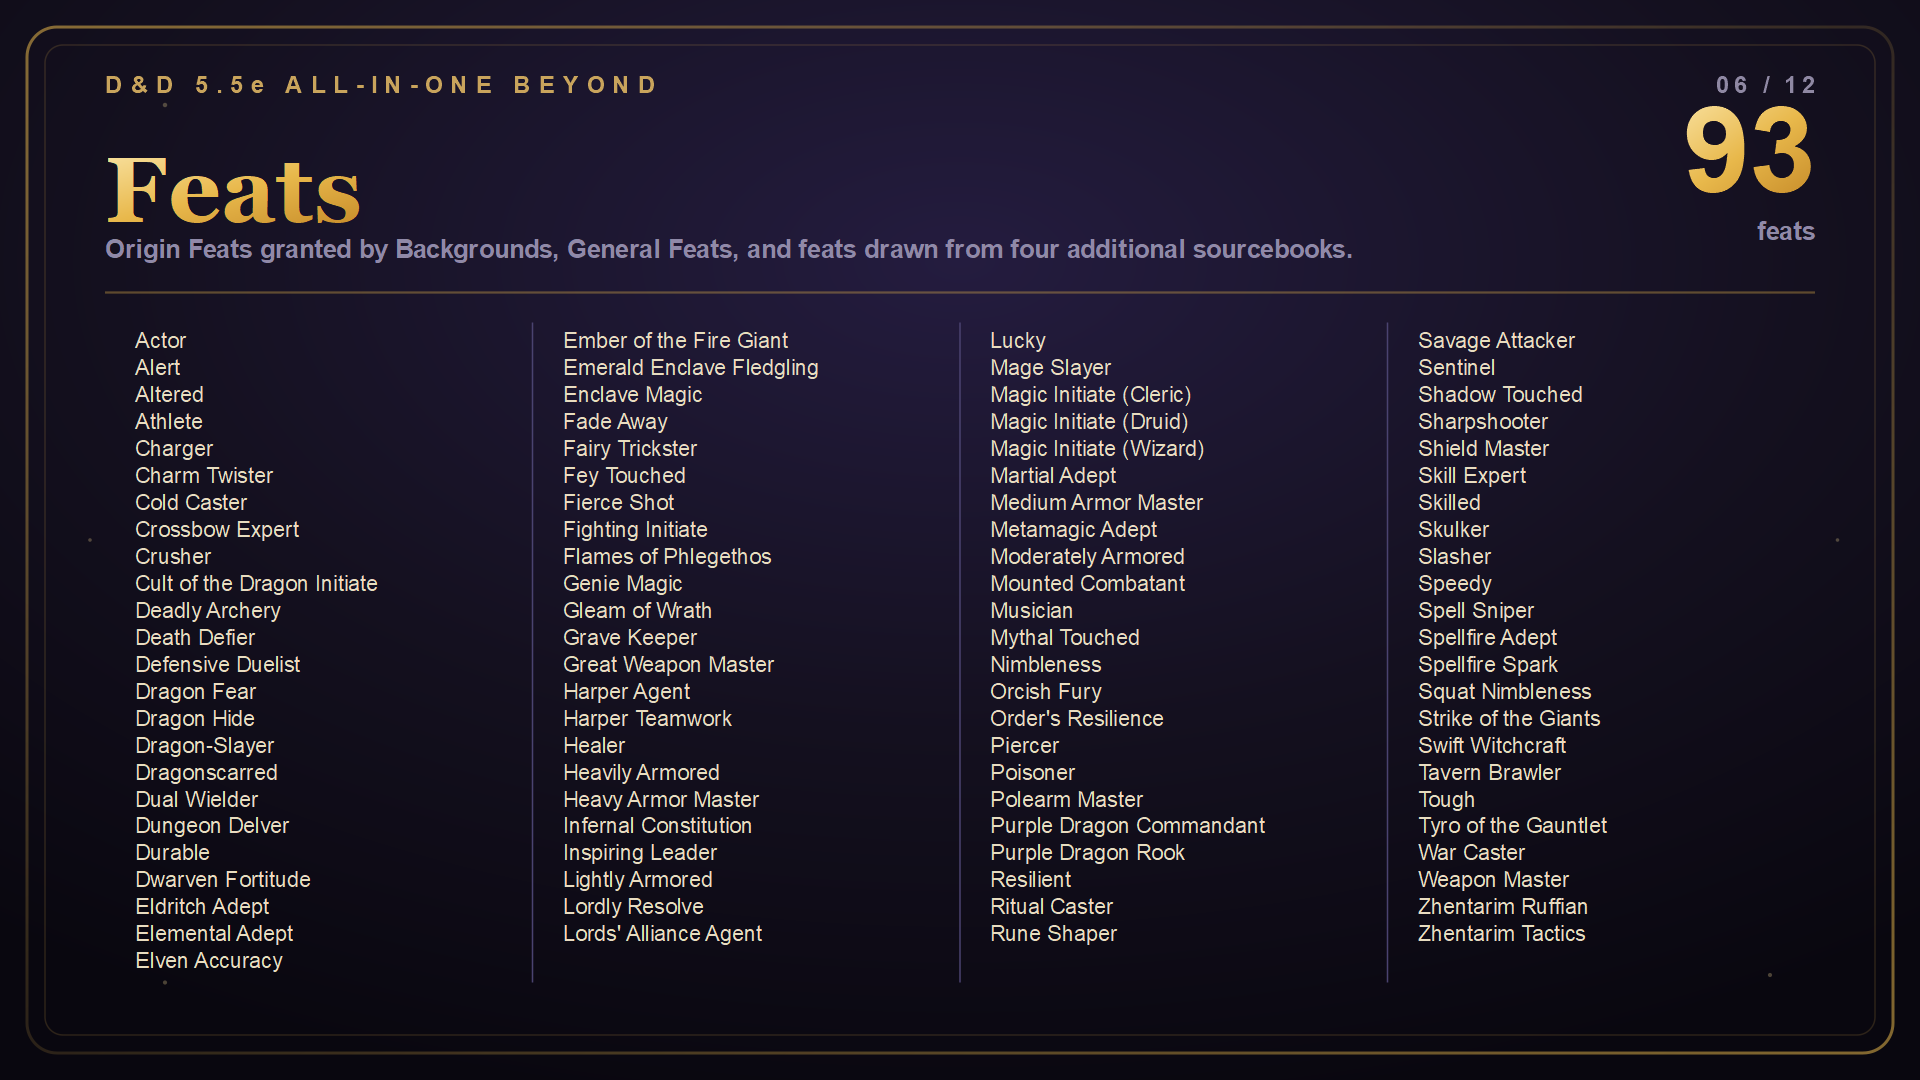
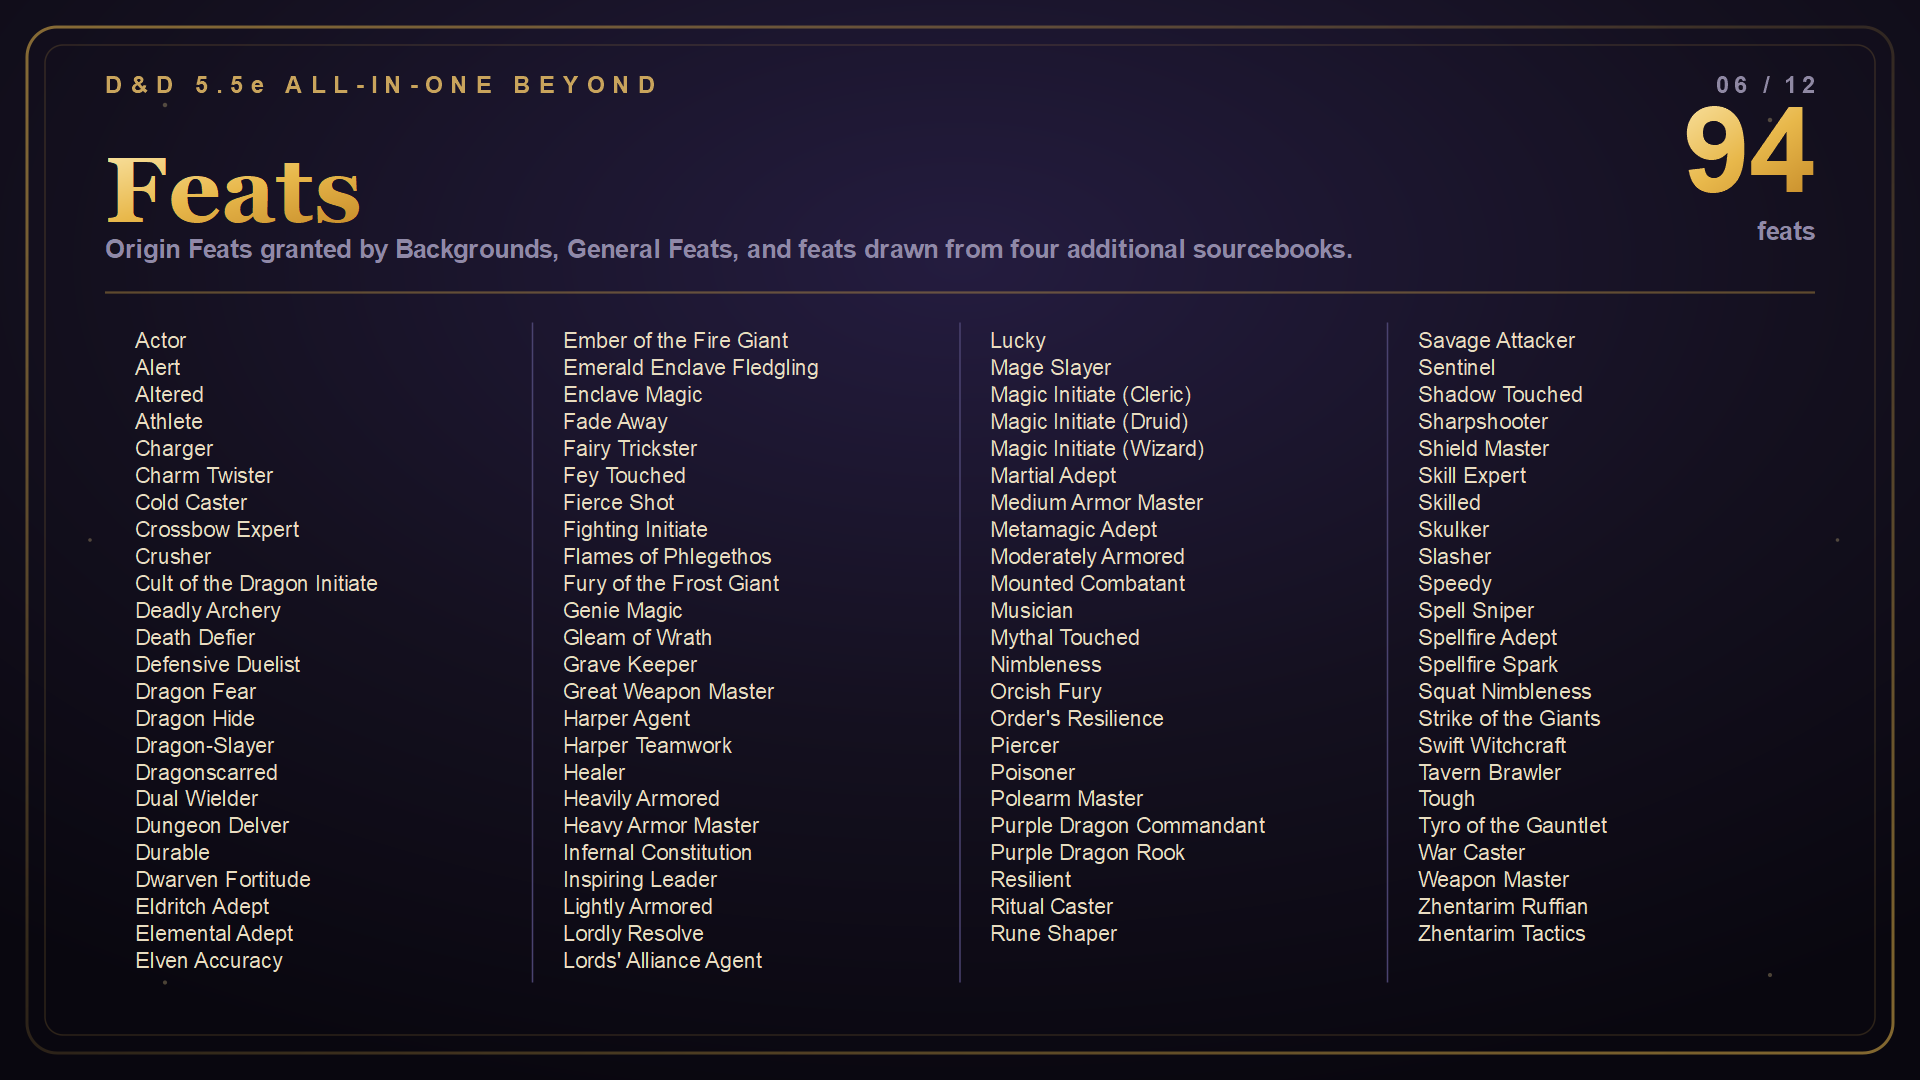
docs: list the giant feats in the readmes and slides
Raise the feat count to 94 on the slide and the thumbnail tile, and
reflow the roster into 24/24/23/23 columns so the extra name stays
inside the frame. The readme rosters were still at 91 - Ember of the
Fire Giant and Strike of the Giants had never been added - so all
three giant feats go in. The thumbnail's background tile was also
stale at 40 while the wiki, the description, and 01-backgrounds.svg
all read 41.

diff --git a/README.md b/README.md
@@ -71,7 +71,7 @@ See the [Wiki](https://github.com/Yoonmoonsik/bg3dnd/wiki) and each class page f
 
 See [Feat](https://github.com/Yoonmoonsik/bg3dnd/wiki/Feats).
 
-Actor, Alert, Altered, Athlete, Charger, Charm Twister, Cold Caster, Crossbow Expert, Crusher, Cult of the Dragon Initiate, Deadly Archery, Death Defier, Defensive Duelist, Dragon Fear, Dragon Hide, Dragonscarred, Dragon-Slayer, Dual Wielder, Dungeon Delver, Durable, Dwarven Fortitude, Eldritch Adept, Elemental Adept, Elven Accuracy, Emerald Enclave Fledgling, Enclave Magic, Fade Away, Fairy Trickster, Fey Touched, Fierce Shot, Fighting Initiate, Flames of Phlegethos, Genie Magic, Gleam of Wrath, Grave Keeper, Great Weapon Master, Harper Agent, Harper Teamwork, Healer, Heavily Armored, Heavy Armor Master, Infernal Constitution, Inspiring Leader, Lightly Armored, Lordly Resolve, Lords' Alliance Agent, Lucky, Mage Slayer, Magic Initiate: Cleric, Magic Initiate: Druid, Magic Initiate: Wizard, Martial Adept, Medium Armor Master, Metamagic Adept, Moderately Armored, Mounted Combatant, Musician, Mythal Touched, Nimbleness, Orcish Fury, Order's Resilience, Piercer, Poisoner, Polearm Master, Purple Dragon Commandant, Purple Dragon Rook, Resilient, Ritual Caster, Rune Shaper, Savage Attacker, Sentinel, Shadow Touched, Sharpshooter, Shield Master, Skill Expert, Skilled, Skulker, Slasher, Speedy, Spellfire Adept, Spellfire Spark, Spell Sniper, Squat Nimbleness, Swift Witchcraft, Tavern Brawler, Tough, Tyro of the Gauntlet, War Caster, Weapon Master, Zhentarim Ruffian, Zhentarim Tactics.
+Actor, Alert, Altered, Athlete, Charger, Charm Twister, Cold Caster, Crossbow Expert, Crusher, Cult of the Dragon Initiate, Deadly Archery, Death Defier, Defensive Duelist, Dragon Fear, Dragon Hide, Dragonscarred, Dragon-Slayer, Dual Wielder, Dungeon Delver, Durable, Dwarven Fortitude, Eldritch Adept, Elemental Adept, Elven Accuracy, Ember of the Fire Giant, Emerald Enclave Fledgling, Enclave Magic, Fade Away, Fairy Trickster, Fey Touched, Fierce Shot, Fighting Initiate, Flames of Phlegethos, Fury of the Frost Giant, Genie Magic, Gleam of Wrath, Grave Keeper, Great Weapon Master, Harper Agent, Harper Teamwork, Healer, Heavily Armored, Heavy Armor Master, Infernal Constitution, Inspiring Leader, Lightly Armored, Lordly Resolve, Lords' Alliance Agent, Lucky, Mage Slayer, Magic Initiate: Cleric, Magic Initiate: Druid, Magic Initiate: Wizard, Martial Adept, Medium Armor Master, Metamagic Adept, Moderately Armored, Mounted Combatant, Musician, Mythal Touched, Nimbleness, Orcish Fury, Order's Resilience, Piercer, Poisoner, Polearm Master, Purple Dragon Commandant, Purple Dragon Rook, Resilient, Ritual Caster, Rune Shaper, Savage Attacker, Sentinel, Shadow Touched, Sharpshooter, Shield Master, Skill Expert, Skilled, Skulker, Slasher, Speedy, Spellfire Adept, Spellfire Spark, Spell Sniper, Squat Nimbleness, Strike of the Giants, Swift Witchcraft, Tavern Brawler, Tough, Tyro of the Gauntlet, War Caster, Weapon Master, Zhentarim Ruffian, Zhentarim Tactics.
 
 ### Fighting Styles
 
